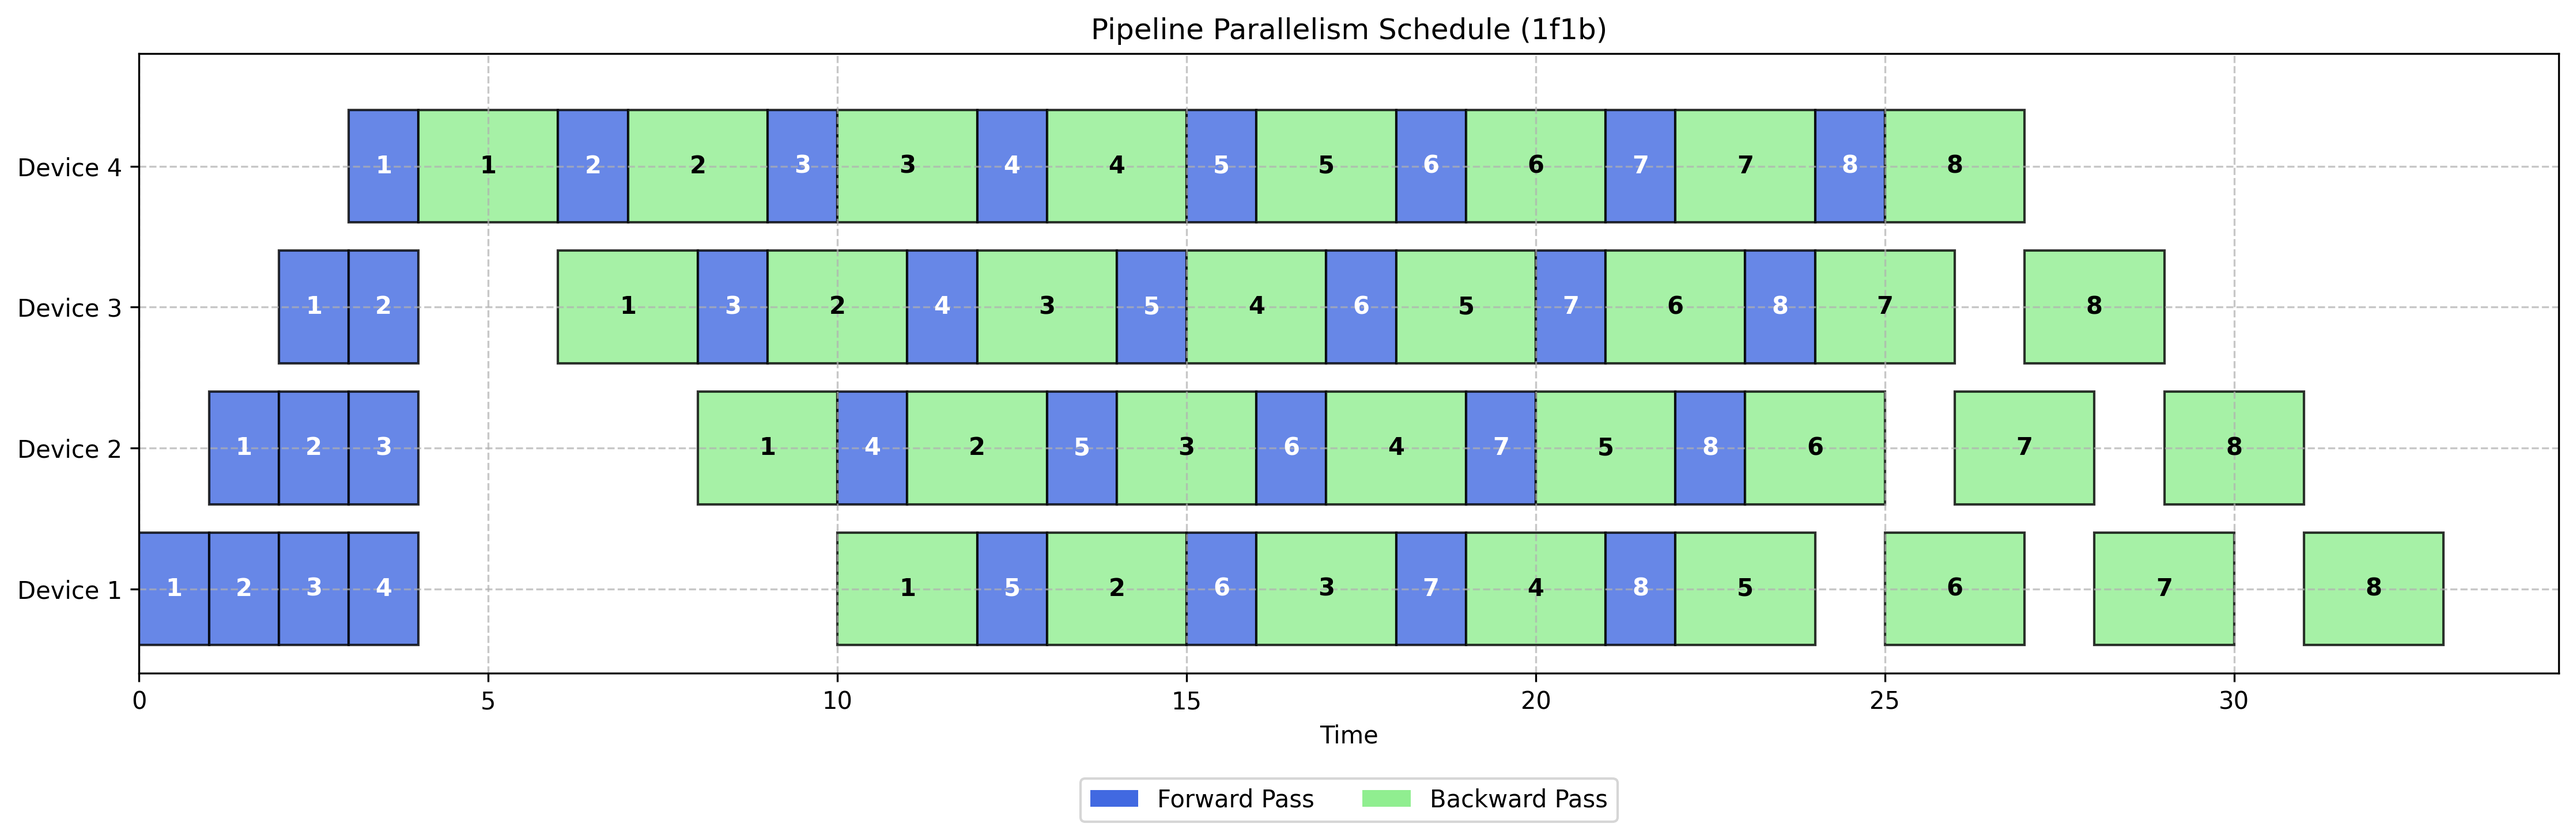
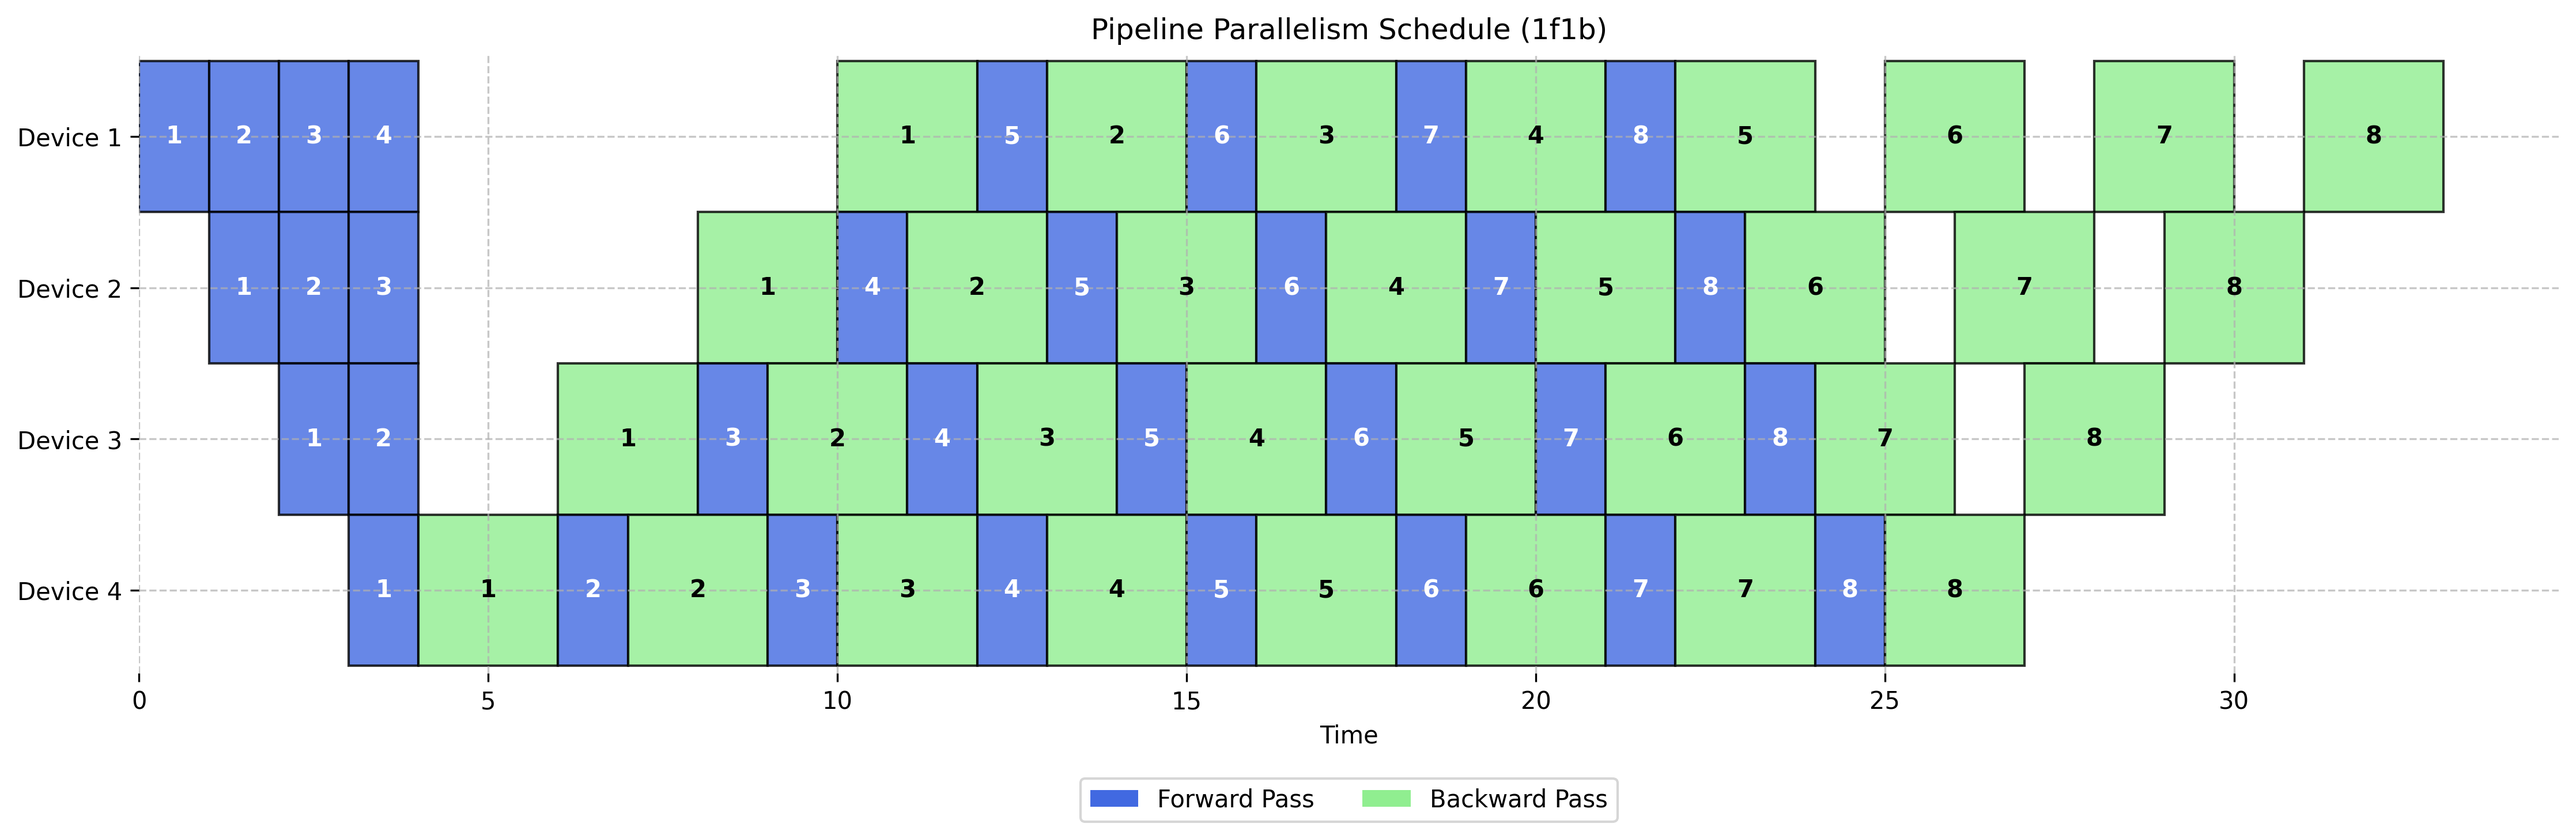
Update visualization.

diff --git a/visualizer.py b/visualizer.py
@@ -43,12 +43,13 @@ def visualize_pipeline_parallelism(
 
     # Plot the schedule
     for device_idx, device in enumerate(schedule):
+        device_idx_reversed = num_stages - device_idx - 1  # Reverse the device index for plotting
         for task in schedule[device]:
             color = forward_color if task["type"] == "forward" else backward_color
             rect = Rectangle(
-                (task["start_time"], device_idx),
+                (task["start_time"], device_idx_reversed),
                 task["duration"],
-                0.8,
+                1.0,  # Use full height to completely remove gaps
                 edgecolor="black",
                 facecolor=color,
                 alpha=0.8,
@@ -58,7 +59,7 @@ def visualize_pipeline_parallelism(
             # Add text (batch number)
             ax.text(
                 task["start_time"] + task["duration"] / 2,
-                device_idx + 0.4,
+                device_idx_reversed + 0.5,  # Center text in the middle of full-height rectangle
                 str(task["batch"]),
                 ha="center",
                 va="center",
@@ -69,11 +70,18 @@ def visualize_pipeline_parallelism(
 
     # Set axis limits and labels
     ax.set_xlim(0, max_time * 1.05)
-    ax.set_ylim(-0.2, num_stages + 0.2)
-    ax.set_yticks(np.arange(num_stages) + 0.4)
-    ax.set_yticklabels([f"Device {i+1}" for i in range(num_stages)])
+    ax.set_ylim(-0.05, num_stages + 0.05)  # Keep the same tight padding
+    ax.set_yticks(np.arange(num_stages) + 0.5)  # Center ticks in the middle of each stage
+    # Reverse the order: Device 1 at the top, highest number at the bottom
+    device_labels = [f"Device {i+1}" for i in range(num_stages)]
+    device_labels.reverse()  # Reverse to put Device 1 at the top
+    ax.set_yticklabels(device_labels)
     ax.set_xlabel("Time")
     ax.set_title(f"Pipeline Parallelism Schedule ({schedule_type})")
+    
+    # Remove the outer frame/border
+    for spine in ax.spines.values():
+        spine.set_visible(False)
 
     # Add a legend
     forward_patch = Rectangle((0, 0), 1, 1, facecolor=forward_color)

diff --git a/README.md b/README.md
@@ -4,7 +4,7 @@ This tool simulates and visualizes pipeline parallelism scheduling strategies, f
 
 ## Usage
 
-### Example Output
+### Example
 
 ```bash
 python pipeline.py --num-stages 4 --num-batches 8
